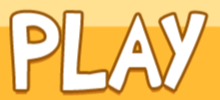
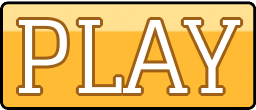
Just some visual changes for a better look

diff --git a/core/src/main/java/com/birds/game/HomeScreen.java b/core/src/main/java/com/birds/game/HomeScreen.java
@@ -2,7 +2,9 @@ package com.birds.game;
 
 import com.badlogic.gdx.Gdx;
 import com.badlogic.gdx.Screen;
+import com.badlogic.gdx.graphics.Color;
 import com.badlogic.gdx.graphics.Texture;
+import com.badlogic.gdx.graphics.g2d.BitmapFont;
 import com.badlogic.gdx.scenes.scene2d.Actor;
 import com.badlogic.gdx.scenes.scene2d.InputEvent;
 import com.badlogic.gdx.scenes.scene2d.Stage;
@@ -16,6 +18,7 @@ import com.badlogic.gdx.scenes.scene2d.ui.Button;
 import com.badlogic.gdx.scenes.scene2d.ui.Image;
 import com.badlogic.gdx.scenes.scene2d.utils.ClickListener;
 import com.badlogic.gdx.utils.ScreenUtils;
+import com.badlogic.gdx.utils.Timer;
 import com.badlogic.gdx.utils.viewport.FitViewport;
 
 public class HomeScreen implements Screen {
@@ -24,17 +27,25 @@ public class HomeScreen implements Screen {
     private Texture backgroundTexture;
     private Texture groundTexture;
     private Texture playButtonTexture;
-
+    private Texture image1;
+    private BitmapFont font;
+    private Color[] colors = {Color.WHITE, Color.RED};
+    private int colorIndex = 0;
     public HomeScreen(AngryBirds1 game) {
         this.game = game;
         stage = new Stage(new FitViewport(1920, 1080));
         Gdx.input.setInputProcessor(stage);
-        stage.setDebugAll(true);
+//        stage.setDebugAll(true);
 
         // Load textures
         backgroundTexture = new Texture("background.jpg");
         groundTexture = new Texture("ground.png");
         playButtonTexture = new Texture("playButton.png");
+        image1 = new Texture("red.png");
+
+        font = new BitmapFont();
+        font.getData().setScale(10);
+        font.setColor(colors[colorIndex]);
 
         // Create and add background and ground images
         Image backgroundImage = new Image(backgroundTexture);
@@ -58,15 +69,15 @@ public class HomeScreen implements Screen {
             @Override
             public void enter(InputEvent event, float x, float y, int pointer, Actor fromActor) {
                 System.out.println("Mouse entered");
+                image1 = new Texture("redActive.png");
                 playButton.addAction(Actions.scaleTo(1.2f, 1.2f, 0.1f));
-                System.out.println("Mouse entered");
             }
 
             @Override
             public void exit(InputEvent event, float x, float y, int pointer, Actor toActor) {
                 System.out.println("Mouse exited");
+                image1 = new Texture("red.png");
                 playButton.addAction(Actions.scaleTo(1.0f, 1.0f, 0.1f));
-                System.out.println("Mouse exited");
             }
 
             @Override
@@ -80,6 +91,15 @@ public class HomeScreen implements Screen {
         });
 
         stage.addActor(playButton);
+
+        // Schedule a task to change the font color every second
+        Timer.schedule(new Timer.Task() {
+            @Override
+            public void run() {
+                colorIndex = (colorIndex + 1) % colors.length;
+                font.setColor(colors[colorIndex]);
+            }
+        }, 0, 0.5f);
     }
 
     @Override
@@ -92,6 +112,10 @@ public class HomeScreen implements Screen {
         ScreenUtils.clear(0.15f, 0.15f, 0.2f, 1f);
         stage.act(delta);
         stage.draw();
+        stage.getBatch().begin();
+        stage.getBatch().draw(image1, 1300, 330, 100, 100);
+        font.draw(stage.getBatch(), "Angry Birds", 800, 800);
+        stage.getBatch().end();
     }
 
     @Override

diff --git a/core/src/main/java/com/birds/game/AngryBirds1.java b/core/src/main/java/com/birds/game/AngryBirds1.java
@@ -1,6 +1,8 @@
 package com.birds.game;
 
 import com.badlogic.gdx.Game;
+import com.badlogic.gdx.Gdx;
+import com.badlogic.gdx.audio.Music;
 
 import java.io.*;
 
@@ -9,6 +11,18 @@ import java.io.*;
 public class AngryBirds1 extends Game {
     public static LevelManager levelManager;
     public static GameScreen tempScreen;
+    private Music backgroundMusic;
+//    private static int test;
+
+//    public AngryBirds1(int test) {
+//        // This constructor is used for testing purposes
+//        AngryBirds1.test = test;
+//    }
+//
+//    public AngryBirds1() {
+//        // This constructor is used for testing purposes
+//        AngryBirds1.test = 0;
+//    }
 
     public void saveGame() {
         try (FileOutputStream fileOut = new FileOutputStream("gameData.ser");
@@ -56,7 +70,19 @@ public class AngryBirds1 extends Game {
     public void create() {
         levelManager = new LevelManager();
         loadGame();
+//        if (test == 0){
+//            backgroundMusic = Gdx.audio.newMusic(Gdx.files.internal("backmusic.mp3"));
+//            backgroundMusic.setLooping(true);
+//            backgroundMusic.setVolume(0.1f);
+//            backgroundMusic.play();
+//            this.setScreen(new HomeScreen(this));
+//        }
+        backgroundMusic = Gdx.audio.newMusic(Gdx.files.internal("backmusic.mp3"));
+        backgroundMusic.setLooping(true);
+        backgroundMusic.setVolume(0.1f);
+        backgroundMusic.play();
         this.setScreen(new HomeScreen(this));
+
     }
 
     @Override
@@ -67,6 +93,7 @@ public class AngryBirds1 extends Game {
     @Override
     public void dispose() {
         // Save game data when the game is disposed
+        backgroundMusic.dispose();
         saveGame();
         super.dispose();
     }

diff --git a/core/src/main/java/com/birds/game/LevelSelectScreen.java b/core/src/main/java/com/birds/game/LevelSelectScreen.java
@@ -24,18 +24,13 @@ public class LevelSelectScreen implements Screen {
     private Texture background;
     List<Texture> levelTextures;
     private Texture savedGame;
-//    private Texture level1;
-//    private Texture level2;
-//    private Texture level3;
-//    private Texture level4;
-//    private Texture level5;
 
     public LevelSelectScreen(AngryBirds1 game) {
         this.game = game;
         stage = new Stage(new StretchViewport(1920, 1080));
         background = new Texture("background.jpg");
         levelTextures = new ArrayList<>();
-        savedGame = new Texture("lockedlevel.jpg");
+        savedGame = new Texture("savedlevel.png");
         //depending on if the level is locked or unlocked, the texture will be different
         for (Level level : LevelManager.levels) {
             if (level.getLocked()) {
@@ -83,6 +78,9 @@ public class LevelSelectScreen implements Screen {
         Button button = new Button(new TextureRegionDrawable(new TextureRegion(texture)));
         button.setPosition(x, y);
         button.setSize(100, 100);
+        if (level == 99) {
+            button.setSize(300, 100);
+        }
         button.setTouchable(Touchable.enabled);
         button.setOrigin(button.getWidth() / 2, button.getHeight() / 2);
         button.setTransform(true);

diff --git a/core/src/main/java/com/birds/game/GameScreen.java b/core/src/main/java/com/birds/game/GameScreen.java
@@ -138,7 +138,7 @@ public class GameScreen extends InputAdapter implements Screen, Serializable {
         background = new Texture("background.jpg");
         slingshot = new Texture("sling.png");
         ground = new Texture("ground.png");
-        arrow = new Texture("lockedlevel.jpg");
+        arrow = new Texture("Arrow.png");
 
         // Create ground body
         BodyDef groundBodyDef = new BodyDef();
@@ -289,7 +289,7 @@ public class GameScreen extends InputAdapter implements Screen, Serializable {
         batch.draw(ground, 0, 0, stage.getWidth(), 330);
         batch.draw(slingshot, 380, 330, 100, 200);
         if (showArrow) {
-            batch.draw(arrow, 430, 500, 0, 5, 100, 10, 1, 1, arrowRotation, 0, 0, arrow.getWidth(), arrow.getHeight(), false, false);
+            batch.draw(arrow, 430, 500, 0, 5, 120, 40, 1, 1, arrowRotation, 0, 0, arrow.getWidth(), arrow.getHeight(), false, false);
         }
 //        batch.draw(levelInstance.birdList.get(0).getTexture(), levelInstance.birdList.get(0).getX(), levelInstance.birdList.get(0).getY(), 50, 50);
         for (Bird bird : levelInstance.birdList) {

diff --git a/core/src/main/java/com/birds/game/Bombbird.java b/core/src/main/java/com/birds/game/Bombbird.java
@@ -28,7 +28,7 @@ public class Bombbird extends Bird
         float blastRadius = 200;
 
         for (Pig pig : level.pigList) {
-            Vector2 pigPosition = new Vector2(pig.getX(), pig.getY());
+            Vector2 pigPosition = new Vector2(pig.body.getPosition().x, pig.body.getPosition().y);
             float distance = blastCenter.dst(pigPosition);
             if (distance < blastRadius) {
                 level.setScore(level.getScore() + 500);
@@ -37,7 +37,7 @@ public class Bombbird extends Bird
         }
 
         for (Block block : level.blockList) {
-            Vector2 blockPosition = new Vector2(block.getX(), block.getY());
+            Vector2 blockPosition = new Vector2(block.body.getPosition().x, block.body.getPosition().y);
             float distance = blastCenter.dst(blockPosition);
             if (distance < blastRadius) {
                 level.setScore(level.getScore() + 100);

diff --git a/core/src/main/java/com/birds/game/BigPig.java b/core/src/main/java/com/birds/game/BigPig.java
@@ -3,6 +3,6 @@ package com.birds.game;
 public class BigPig extends Pig
 {
     public BigPig(){
-        super(3, "bigpig.png", 20, 50, 50);
+        super(3, "bigpig.png", 20, 80, 80);
     }
 }
